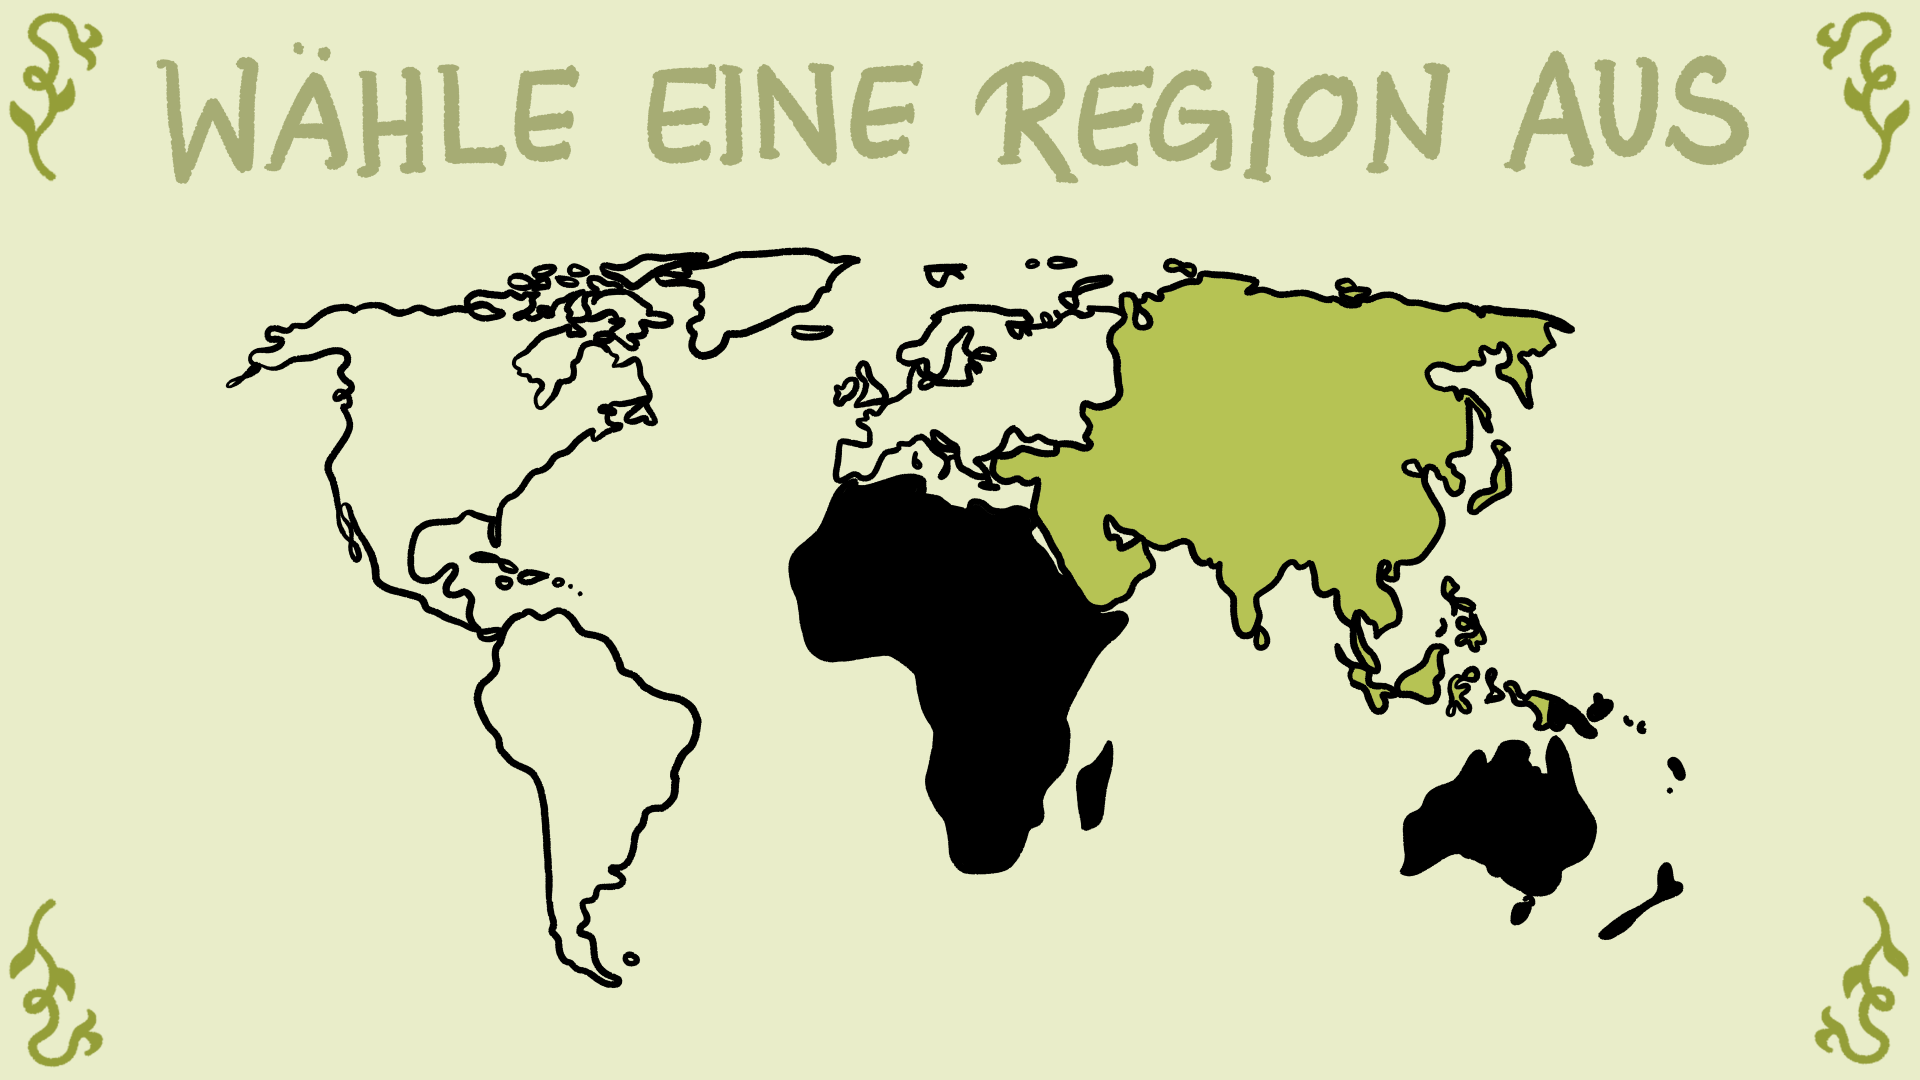
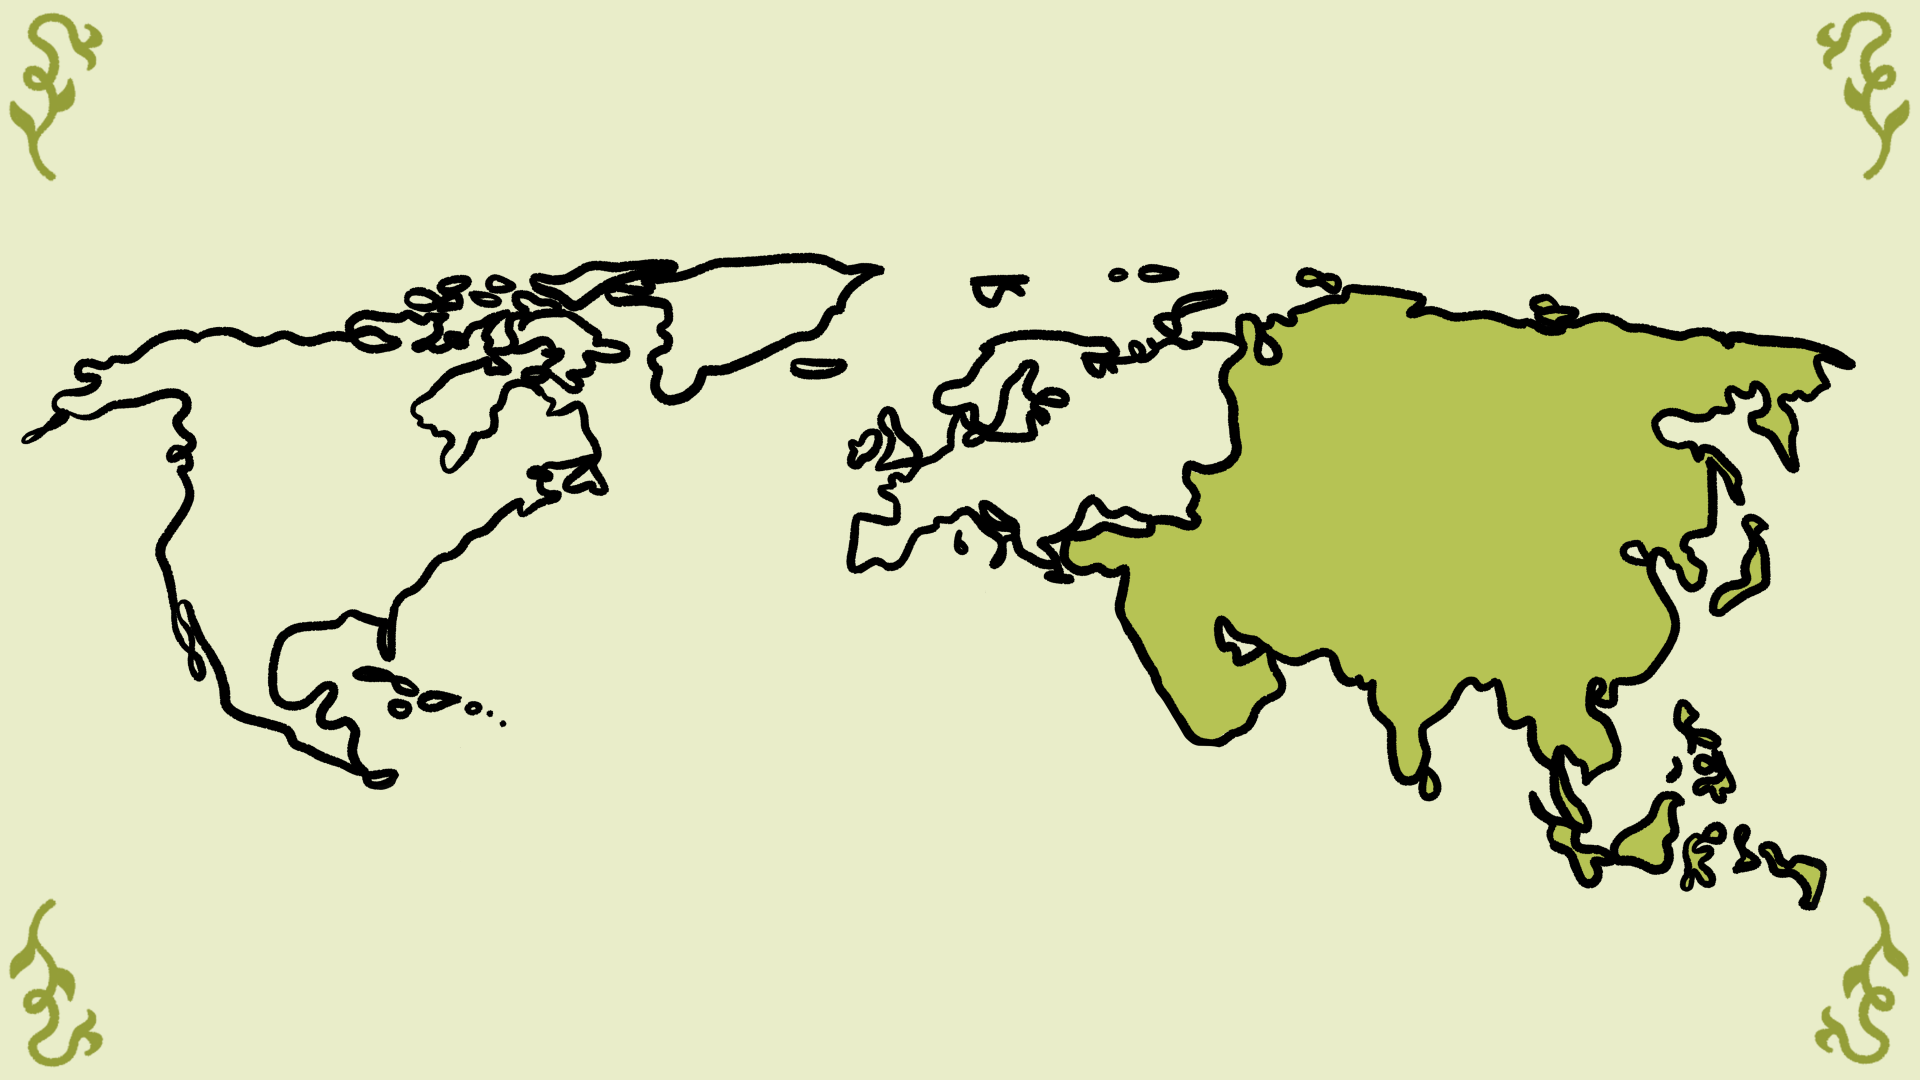
Regionen überarbeitet

diff --git a/src/main/java/conserveandcook/view/gui/screens/RegionScreen.java b/src/main/java/conserveandcook/view/gui/screens/RegionScreen.java
@@ -3,6 +3,7 @@ package conserveandcook.view.gui.screens;
 import ch.trick17.gui.Gui;
 import conserveandcook.model.Application;
 import conserveandcook.view.gui.AvailableScreens;
+import conserveandcook.view.gui.Window;
 
 public class RegionScreen extends AbstractScreen {
     public RegionScreen(Gui gui) {
@@ -14,6 +15,9 @@ public class RegionScreen extends AbstractScreen {
         String backgroundPath = "img/regions/";
         String path = backgroundPath + model.getSelectedRegion().toString().toLowerCase() + ".png";
         drawBackground(path);
+
+        gui.setFontSize((int) (100 * SCALE));
+        gui.drawString("Select Region", (Window.WIDTH / 2) - 150, 80);
     }
 
     @Override
